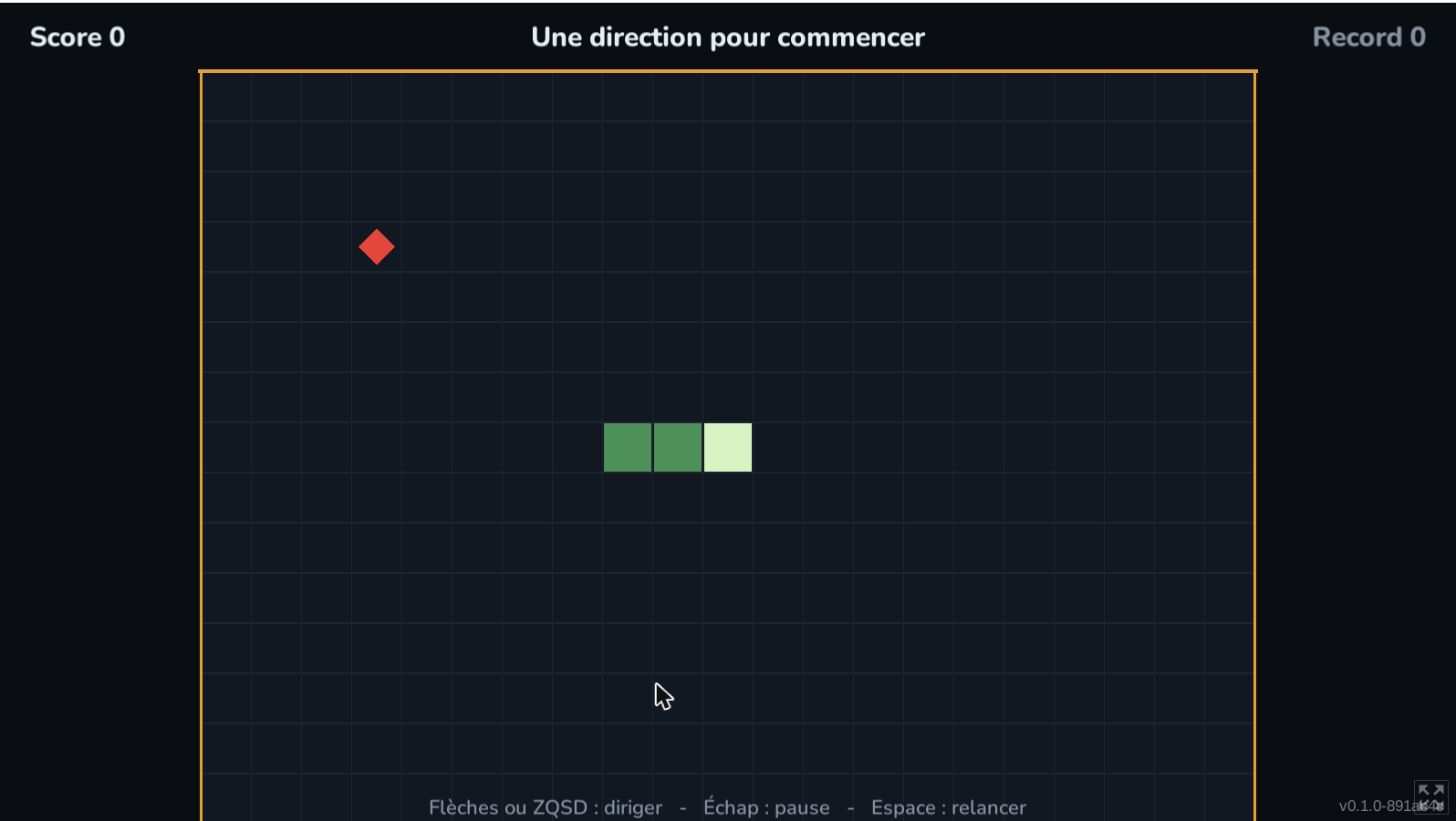
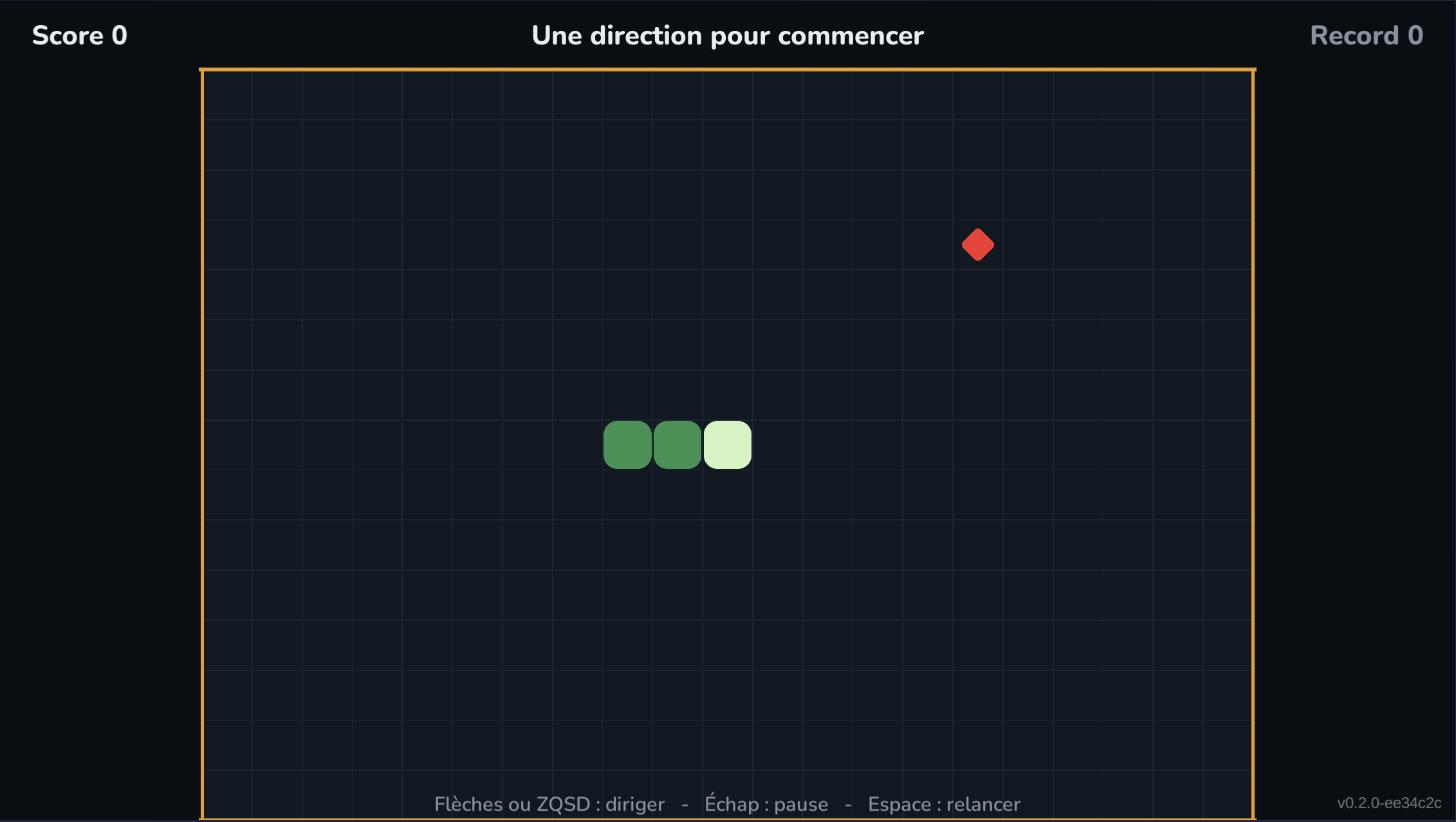
Raconte la 0.2.0 : devlog, captures refaites et page store à jour
Le devlog est publié sur itch (drangoht.itch.io/snake-snack/devlog/1644443), classé « major
update ». Il est écrit d'abord ici, comme l'exige l'en-tête de DEVLOG.md : rien n'est collé sur itch
qui ne soit dans le dépôt. La 0.1.0 reçoit son entrée au passage — elle était sortie sans jamais
être racontée, ce qui rendait faux le « source de vérité de ce qui est réellement sorti ».

⚠ Il dit ce que la version change POUR LE JOUEUR, et surtout ce qu'elle ne change pas : aucune
règle, aucune vitesse, aucun équilibrage. Une note de version qui laisse croire à un changement de
gameplay fait chercher au joueur une différence qui n'existe pas.

Les captures 2 et 3 sont refaites sur le build web 0.2.0 : elles montraient encore le rendu en
rectangles plats, et la recommandation du directeur artistique (cartoon.md §5, retenue par l'auteur)
était de les régénérer dès le rounding livré. La cover et la capture du menu sont inchangées —
l'illustration n'a pas bougé.

⚠ Elles sont prises sur tools/serve_web.py en local, PAS dans le lecteur itch : dans l'iframe de la
page, les clics et le clavier n'atteignent plus le canvas de façon fiable une fois la fenêtre
redimensionnée. Servir le build et capturer la page nue donne le même rendu, sans habillage ni barre
de titre — et sans le tampon « Development Build » qu'un build Windows afficherait.

verif-web-glissement.png garde la preuve que l'interpolation tourne AUSSI en WebGL, et pas seulement
[…]

diff --git a/docs/ITCH_STORE_PAGE.md b/docs/ITCH_STORE_PAGE.md
@@ -39,8 +39,8 @@ Une partie se relance en **une touche et zéro attente**.
 | Revenir au menu | Échap (écran de fin) **ou** Retour arrière (pause) | — pas en 0.1 |
 | Naviguer le menu | Flèches ou ZQSD, Entrée ou Espace | souris : survol et clic |
 
-⚠ **Le jeu se joue au clavier** : il n'y a pas de commandes tactiles en 0.1.0, une souris ne suffit
-que pour le menu.
+⚠ **Le jeu se joue au clavier** : il n'y a aucune commande tactile, une souris ne suffit que pour le
+menu.
 
 ### Ce qu'il y a dedans
 
@@ -48,9 +48,11 @@ que pour le menu.
 - Un record qui survit à la fermeture du jeu, et qui se bat strictement.
 - Un menu principal : jouer, comment jouer, crédits.
 - Une pause, et un refus de demi-tour qui **se voit** plutôt que d'avaler l'appui en silence.
+- Un serpent qui **glisse** d'une case à l'autre, des formes arrondies, et une mort qui montre la
+  case fautive avant d'afficher l'écran de fin.
 
-**Ce qui n'y est pas encore** : aucun son ni aucune musique en 0.1.0, et les graphismes sont ceux
-d'une première version. C'est une base jouable, pas une version finie.
+**Ce qui n'y est pas encore** : aucun son ni aucune musique. C'est une base jouable, pas une version
+finie.
 
 ### Crédits
 
@@ -75,7 +77,12 @@ projet précédent.
       **Décoché** : le jeu n'a aucune commande tactile, l'annoncer jouable au doigt serait faux.
 - [ ] **Orientation** déclarée — sans objet tant que « mobile friendly » est décoché
 - [ ] Onglet **Classification** : genre, tags, **décompte de joueurs**, mode multijoueur
-- [ ] **Cover 630 × 500** — la seule image que voient les visiteurs qui n'ouvrent pas la page
+- [x] **Cover 630 × 500** — la seule image que voient les visiteurs qui n'ouvrent pas la page.
+      Produite par `tools/generer_cover_itch.py`, **inchangée en 0.2.0** : l'illustration du menu
+      n'a pas bougé.
+- [x] **Captures d'écran** — trois, prises DANS le navigateur sur la page itch elle-même.
+      ⚠ Celles de la partie montrent le rendu du jeu : **à régénérer à chaque changement visible**,
+      sinon la page annonce un serpent que la partie ne montre plus.
 
 ⚠ **Visibilité** : la page est en **Draft** depuis sa création (2026-08-28). Rien n'est public tant
 que l'auteur n'a pas cliqué « Publish » lui-même.

diff --git a/docs/DEVLOG.md b/docs/DEVLOG.md
@@ -6,6 +6,37 @@ Chaque entrée est écrite ici avant d'être collée sur itch — rien n'est pub
 Écrire **pour le joueur**, pas pour l'historique git : « les blobs ne restent plus collés au filet »
 et non « fix(BlobController): clamp horizontal velocity ».
 
+## v0.2.0 — Le serpent glisse, et il a perdu ses angles droits (2026-08-29)
+
+**Nouveautés**
+- **Le serpent glisse d'une case à l'autre** au lieu de sauter. Les règles n'ont pas bougé d'un
+  millimètre — c'est toujours une case par tick, au même rythme — mais on le voit enfin se déplacer.
+- **Fini le papier millimétré** : le corps, la tête et la pomme ont des coins arrondis. Le serpent
+  du menu et celui de la partie sont enfin le même animal.
+- **Avaler se sent** : la tête gonfle sur la bouchée, le nouvel anneau apparaît d'un coup à la queue,
+  et le score fait un bond quand il monte.
+- **On voit enfin ce qui vous a tué** : la case fautive s'illumine, le jeu marque un très court temps
+  d'arrêt, et l'écran de fin n'arrive qu'après — le temps de comprendre.
+
+**Équilibrage**
+- Rien. Ni la vitesse, ni la grille, ni le score, ni le tirage des pommes n'ont changé : une partie
+  se joue exactement comme en 0.1.0.
+
+**Corrections**
+- Marteler Espace juste avant de mourir ne saute plus l'écran de fin. La partie repartait aussitôt,
+  sans qu'on ait vu ni son score ni ce qui l'avait arrêtée.
+
+**Toujours pas là** : le son et la musique.
+
+## v0.1.0 — Première version jouable (2026-08-28)
+
+**Nouveautés**
+- Le jeu de Snake au complet : un serpent qui s'allonge à chaque pomme, des murs qui tuent, un score
+  et un record qui survit à la fermeture du jeu.
+- Un menu principal — jouer, comment jouer, crédits — au clavier comme à la souris.
+- Une pause, et un demi-tour refusé qui **se voit** au lieu d'être avalé en silence.
+- Jouable directement dans le navigateur.
+
 <!-- Gabarit d'une entrée, à copier en TÊTE de fichier :
 
 ## vX.Y.Z — <résumé en quelques mots> (AAAA-MM-JJ)
